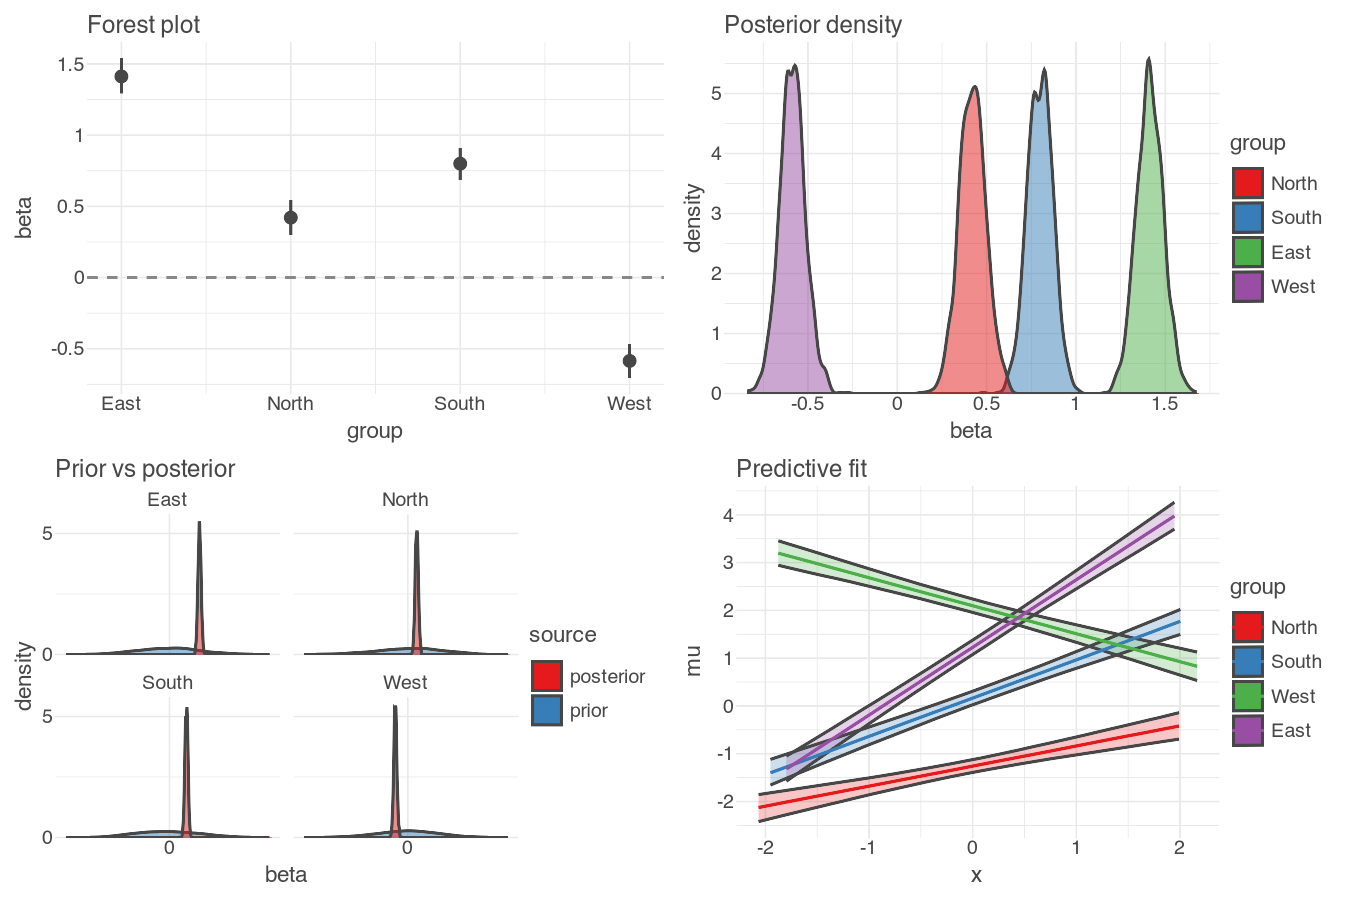
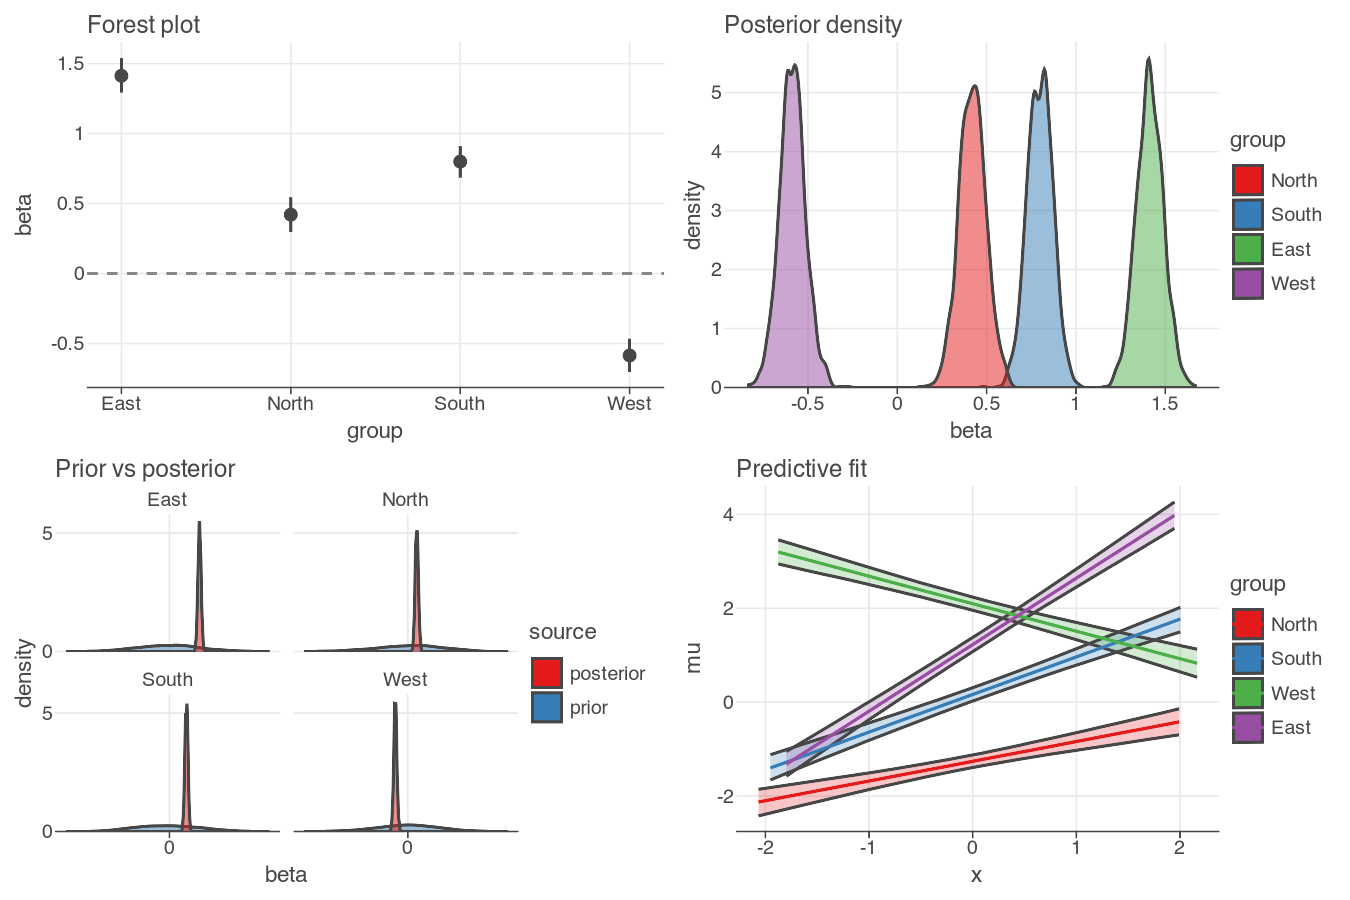
Run make precommit, rebuild index-plot

diff --git a/README.md b/README.md
@@ -30,13 +30,6 @@ pip install tidydraws
 
 Plotting MCMC output in Python means manually slicing xarray dimensions, iterating groups, and aligning coordinates — imperative, verbose, error-prone. R's [`tidybayes`](https://github.com/mjskay/tidybayes) solved this with a data layer that respects parameter space vs prediction space. `tidydraws` brings that to Python on Polars.
 
-| Task | ArviZ (manual) | tidydraws |
-| --- | --- | --- |
-| Extract `beta[groups]` | `dt.posterior["beta"].values` + reshape | `parameter_draws(dt, "beta[groups]")` |
-| Compare prior / posterior | concat two arrays by hand | `compare_draws(dt, "beta[groups]")` |
-| Join predictions to covariates | manual merge on obs index | `prediction_draws(dt, var_name="mu")` |
-| Subset before plotting | slice after materialising | `.filter(...)` on the returned frame |
-
 > **Backend-agnostic:** `tidydraws` returns Polars `DataFrame`s. Call `.to_pandas()` to bridge to lets-plot, plotnine, or any library that takes pandas. See the [examples](https://drbenvincent.github.io/tidydraws/docs/examples/parameter_draws.html) for both lets-plot and plotnine versions.
 
 ---